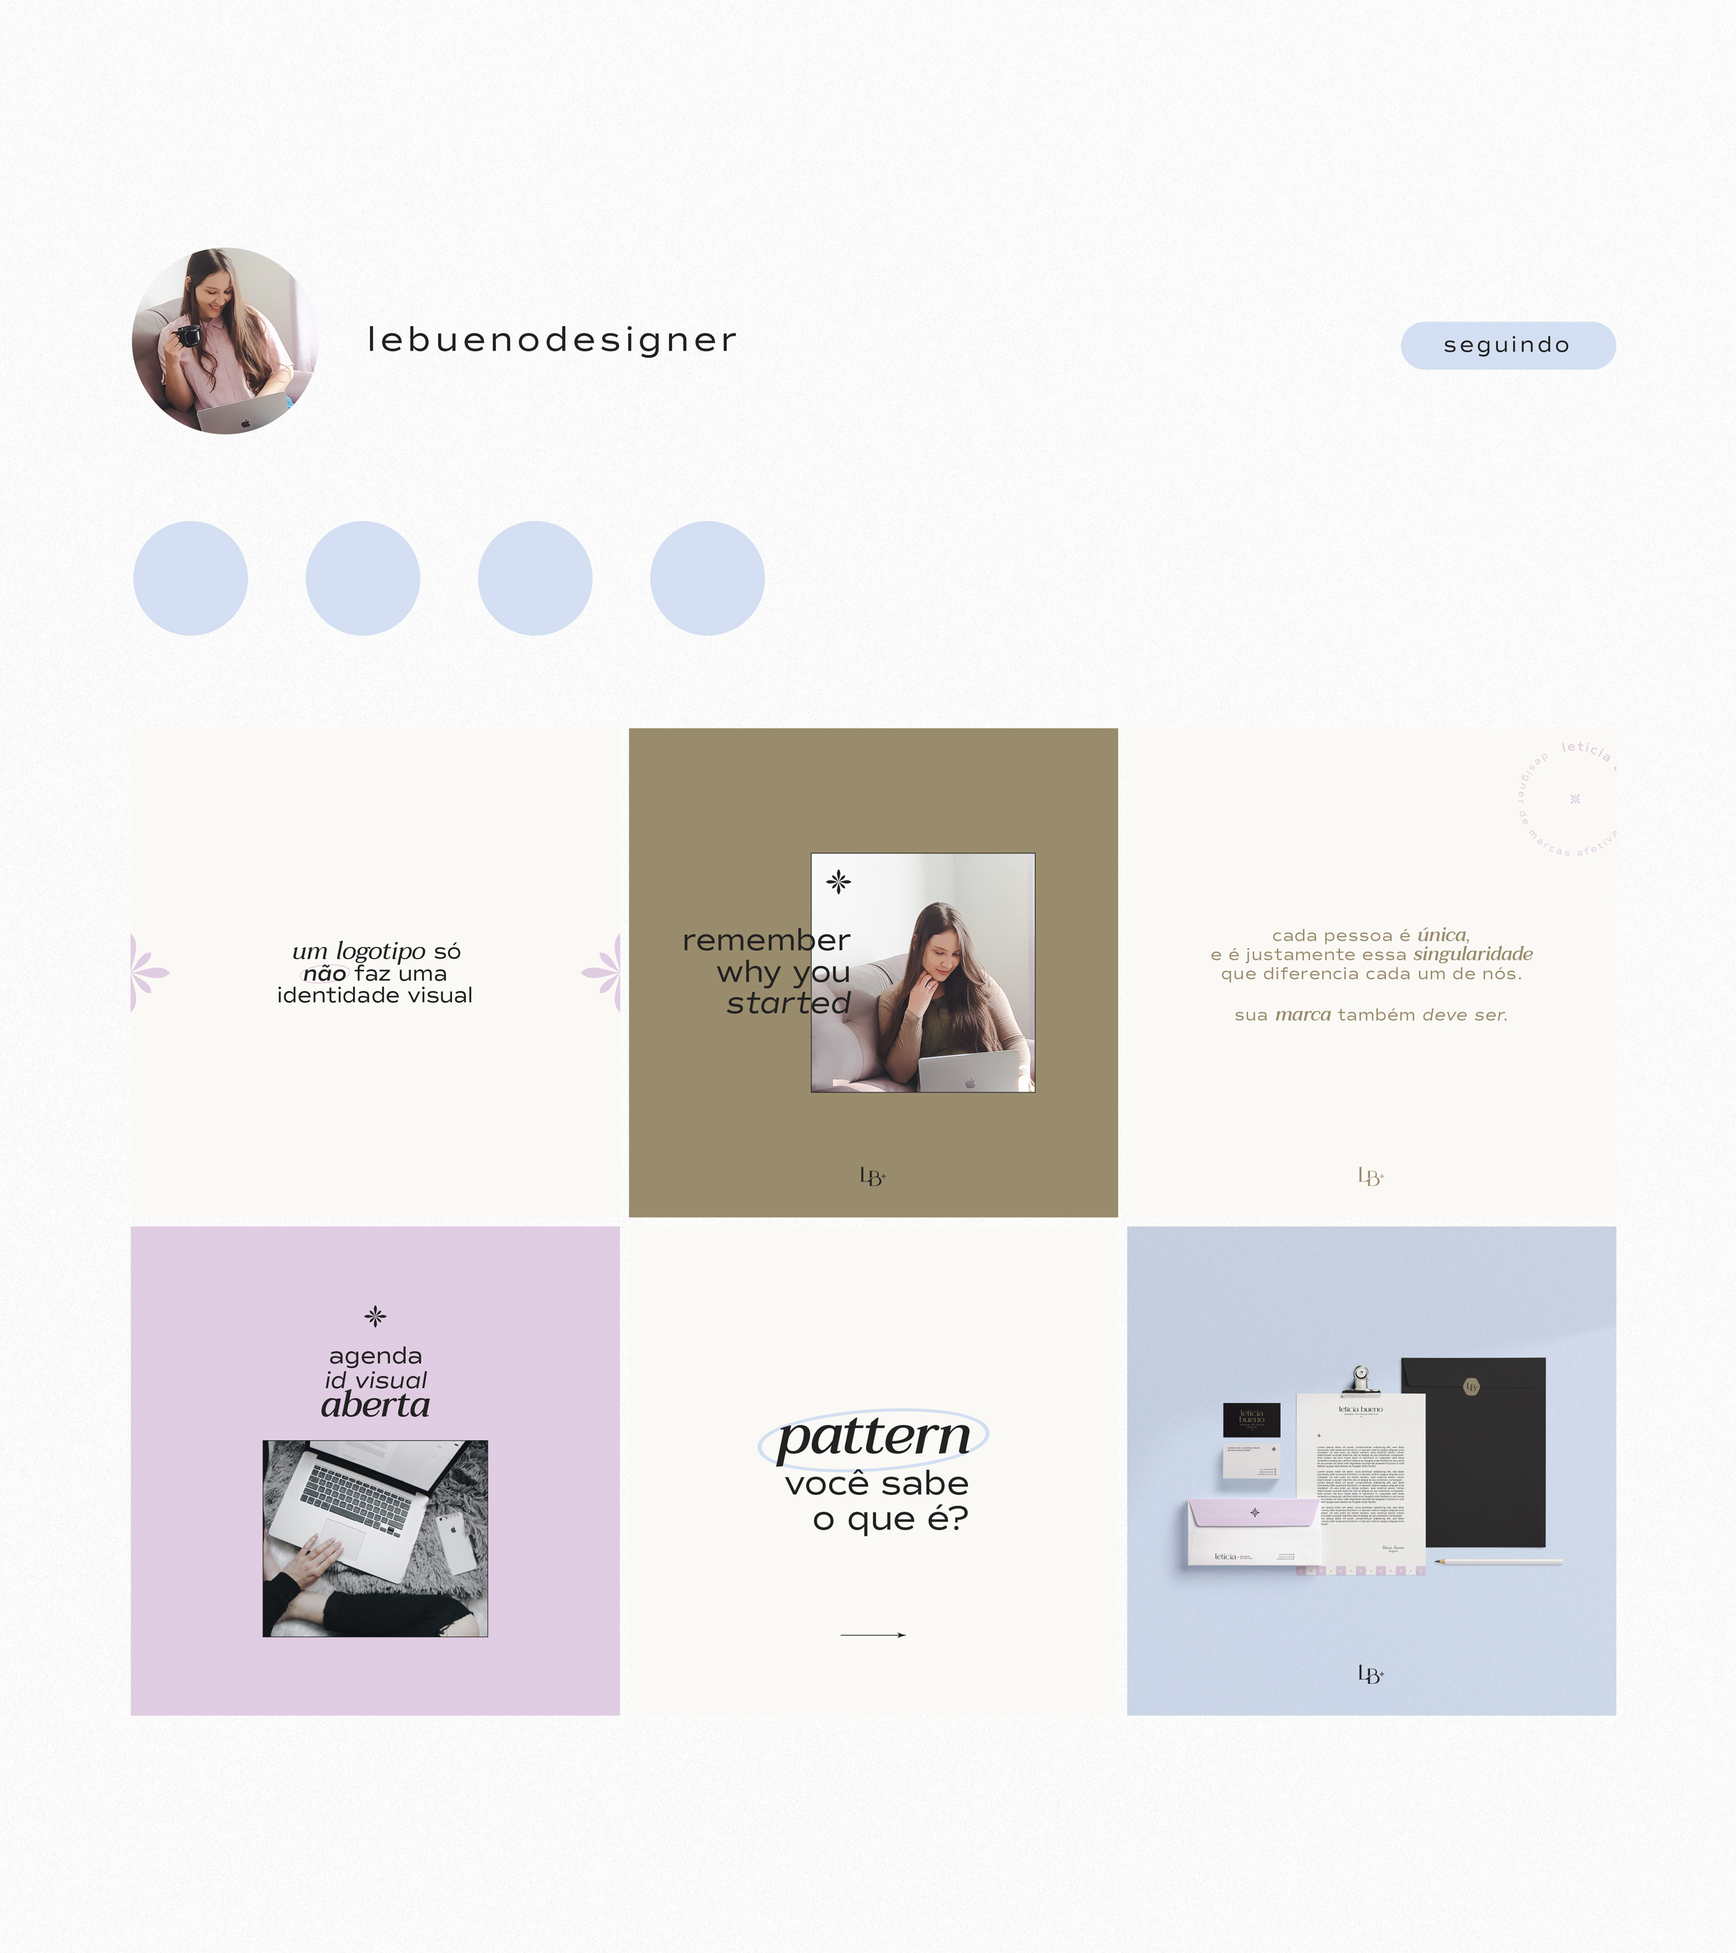
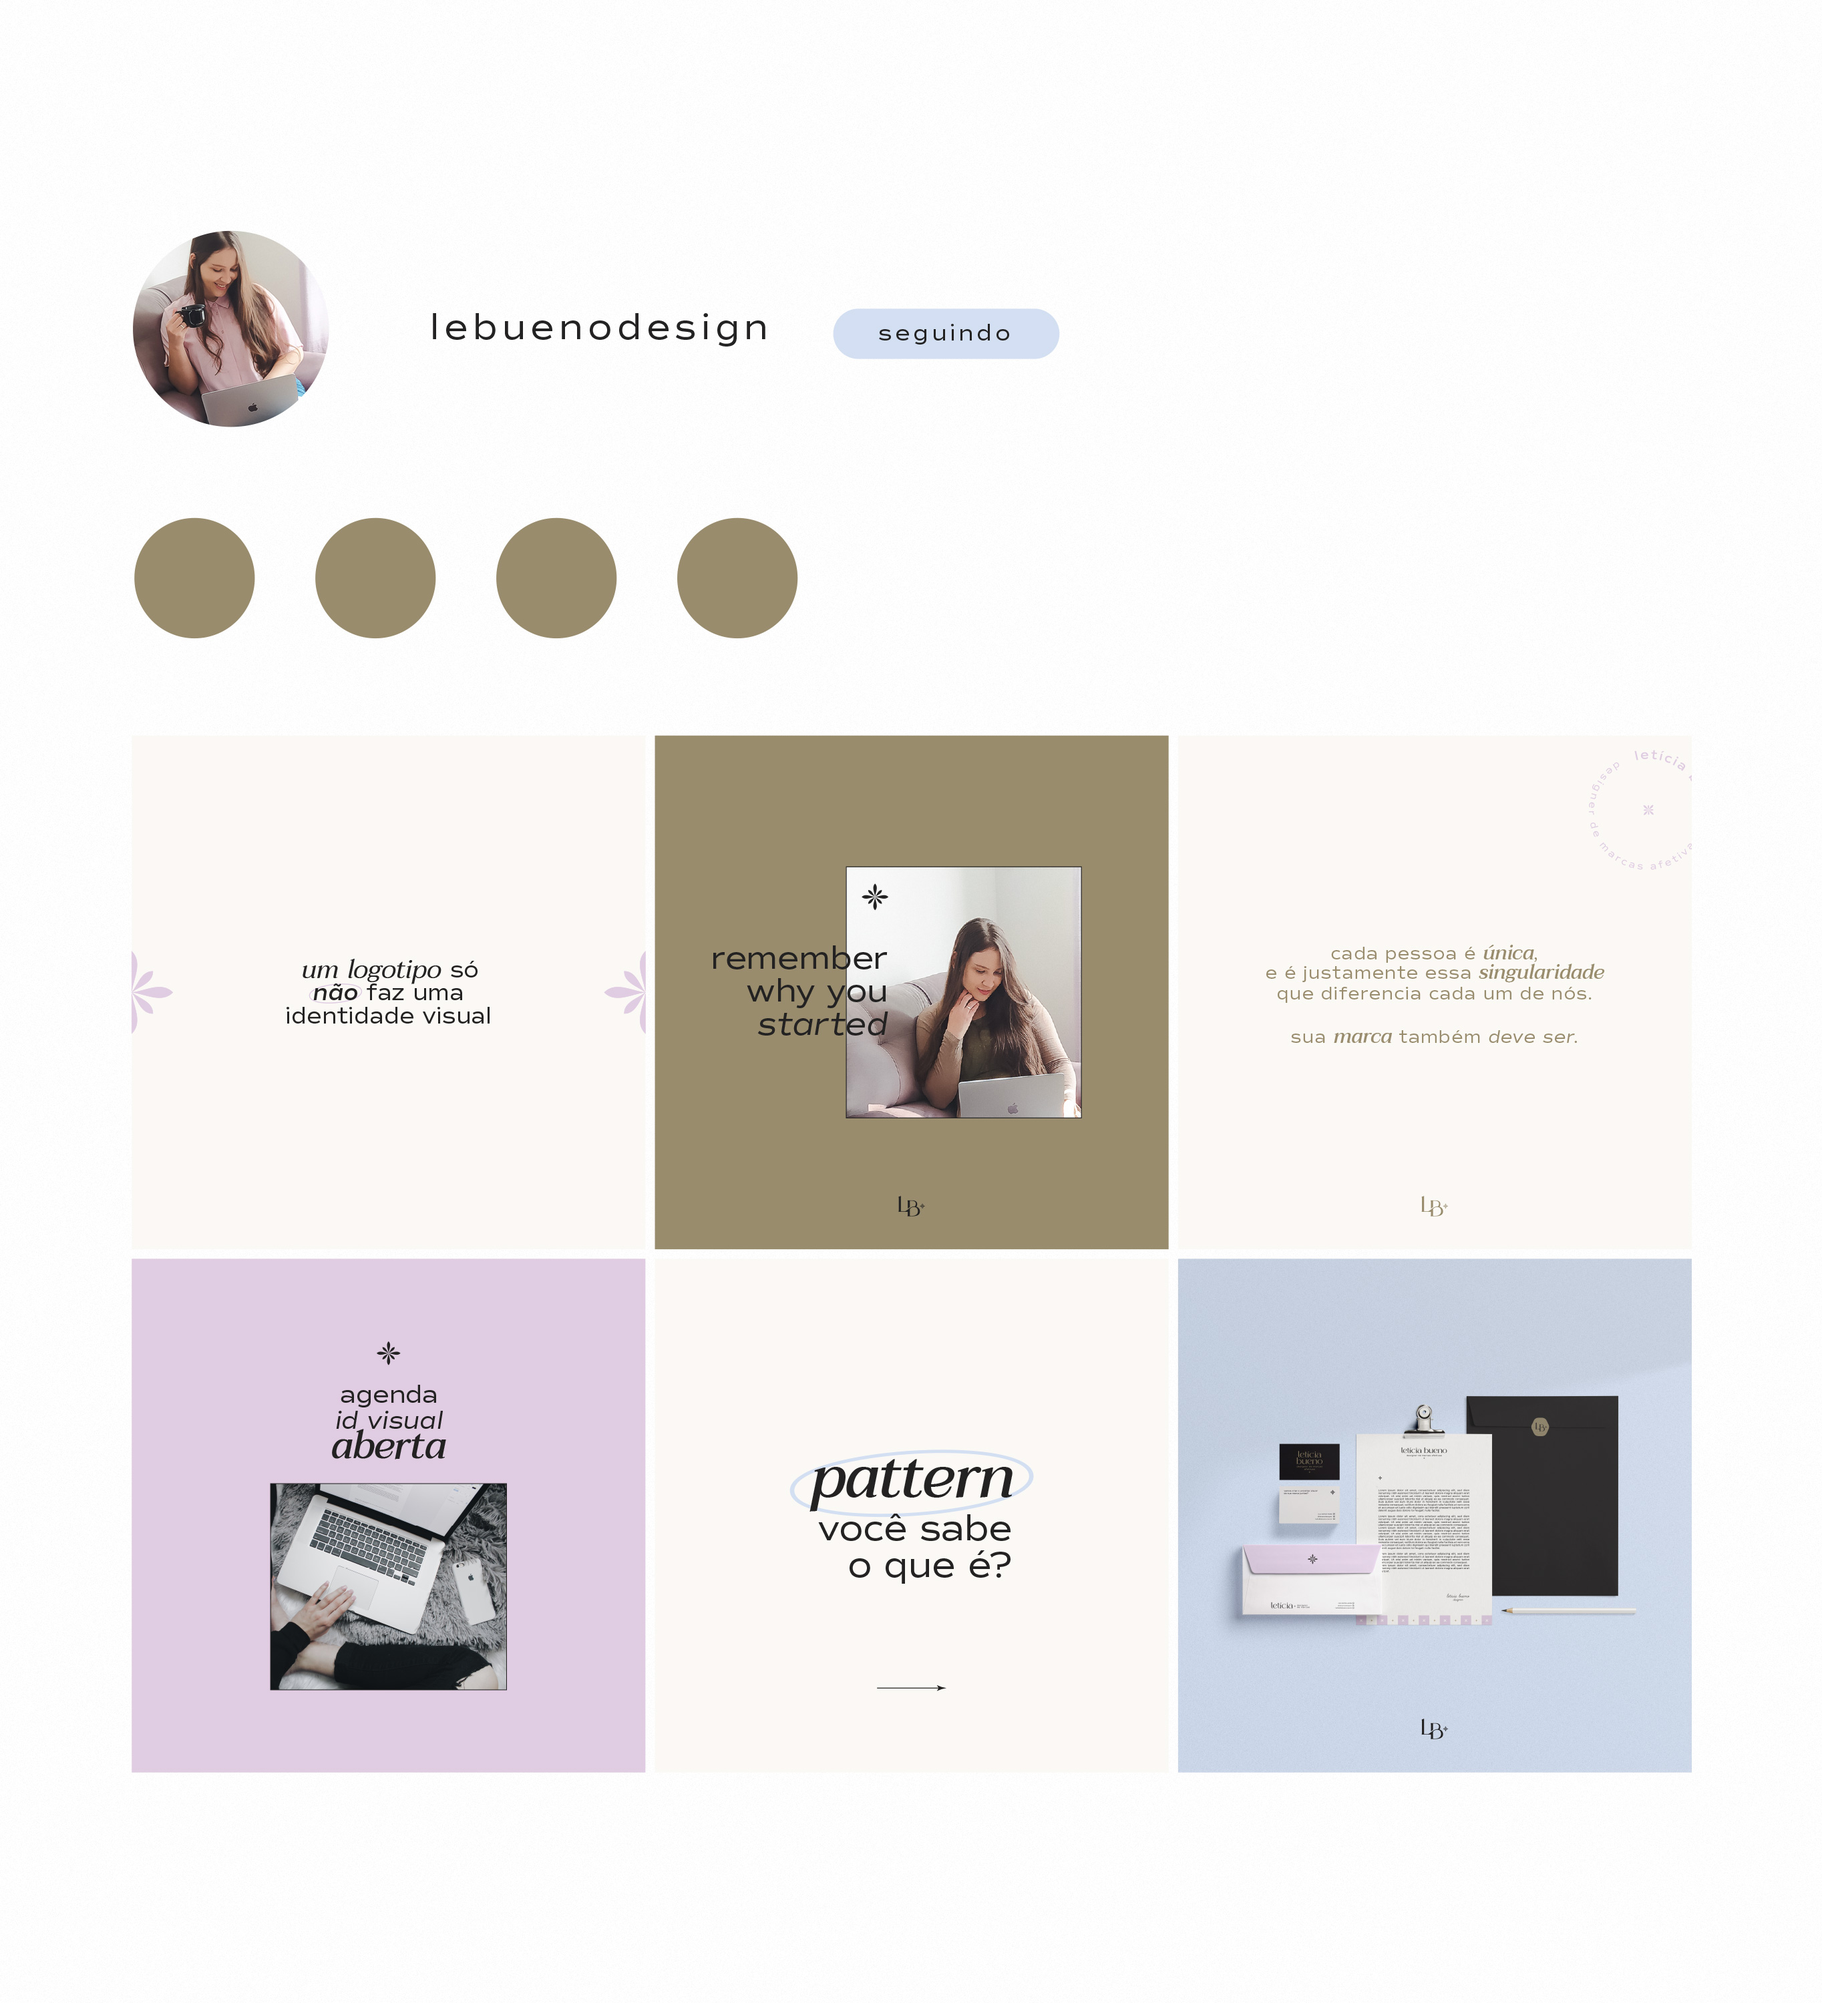
refactor: change instagram name

diff --git a/src/components/footer/index.tsx b/src/components/footer/index.tsx
@@ -14,7 +14,7 @@ export function Footer() {
               <a href='https://wa.me/5511937054095' target="_blank" rel="noreferrer">(11) 93705-4095</a><FaWhatsapp />
             </span>
             <span>
-              <a href='https://www.instagram.com/solstudiosdesign/' target="_blank" rel="noreferrer">@lebuenodesigner</a><FiInstagram />
+              <a href='https://www.instagram.com/lebuenodesign/' target="_blank" rel="noreferrer">@lebuenodesign</a><FiInstagram />
             </span>
             <span>
               <a href='mailto:hello@lebueno.com.br' target="_blank" rel="noreferrer">hello@lebueno.com.br</a><FiMail />
